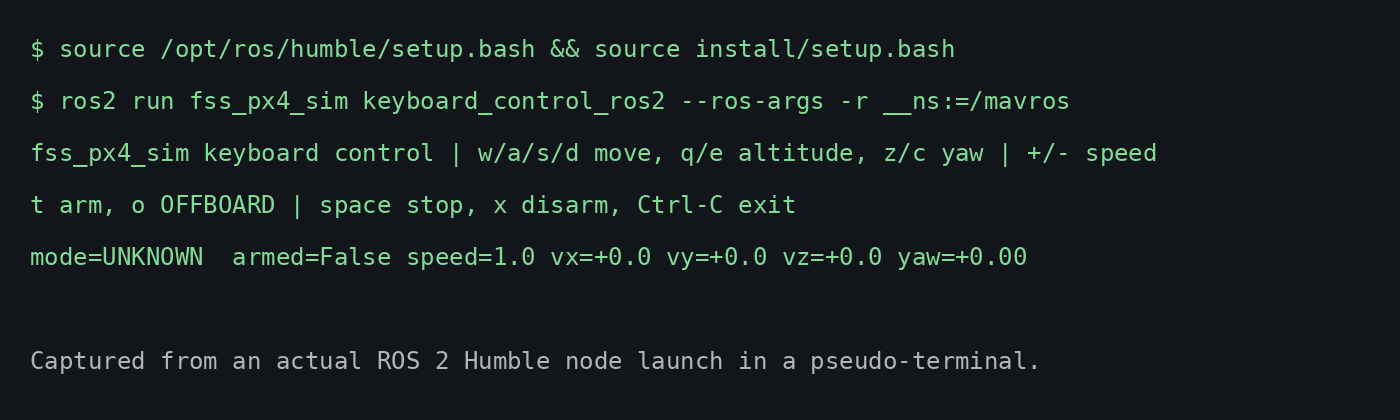
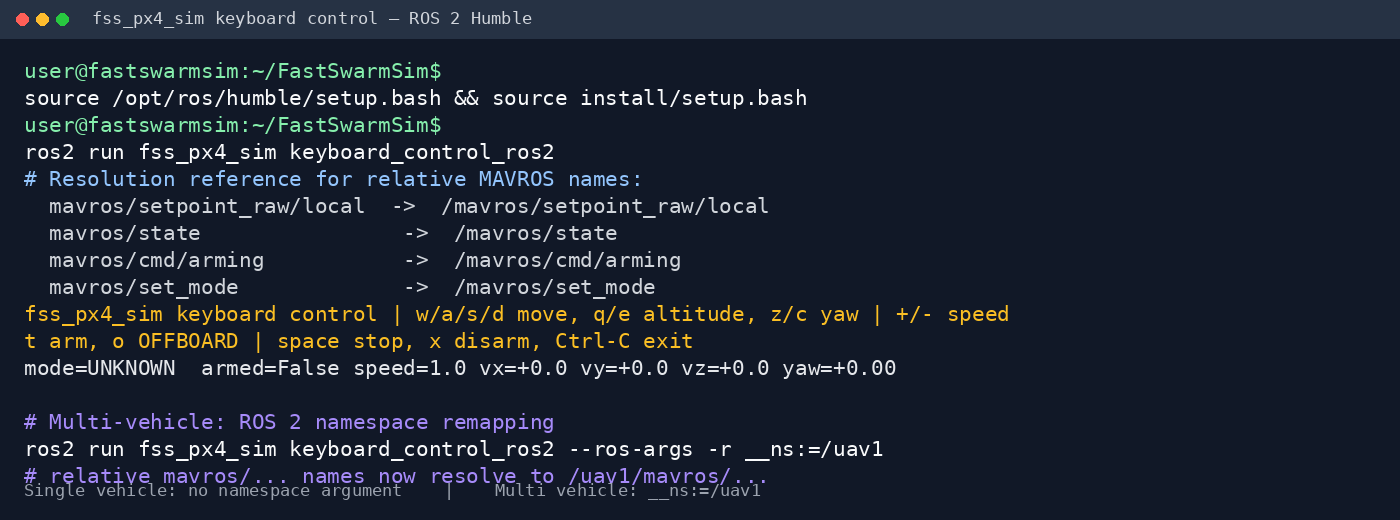
fix(fss-px4-sim): restore ROS namespace-based MAVROS names

diff --git a/src/fss_px4_sim/scripts/keyboard_control_ros2.py b/src/fss_px4_sim/scripts/keyboard_control_ros2.py
@@ -16,29 +16,12 @@ from rclpy.node import Node
 from rclpy.signals import SignalHandlerOptions
 
 
-DEFAULT_SETPOINT_TOPIC = "/mavros/setpoint_raw/local"
-DEFAULT_STATE_TOPIC = "/mavros/state"
-DEFAULT_ARMING_SERVICE = "/mavros/cmd/arming"
-DEFAULT_MODE_SERVICE = "/mavros/set_mode"
-
-
-def mavros_interfaces(namespace):
-    """Return MAVROS interface names, using absolute single-vehicle defaults."""
-    if namespace == "/mavros":
-        return (
-            DEFAULT_SETPOINT_TOPIC,
-            DEFAULT_STATE_TOPIC,
-            DEFAULT_ARMING_SERVICE,
-            DEFAULT_MODE_SERVICE,
-        )
-
-    namespace = "/" + namespace.strip("/")
-    return (
-        f"{namespace}/setpoint_raw/local",
-        f"{namespace}/state",
-        f"{namespace}/cmd/arming",
-        f"{namespace}/set_mode",
-    )
+# Relative names preserve the ROS 1-style namespace layout:
+# single vehicle -> /mavros/..., multi-vehicle /uav1 -> /uav1/mavros/...
+SETPOINT_TOPIC = "mavros/setpoint_raw/local"
+STATE_TOPIC = "mavros/state"
+ARMING_SERVICE = "mavros/cmd/arming"
+MODE_SERVICE = "mavros/set_mode"
 
 
 class KeyboardControl(Node):
@@ -51,12 +34,14 @@ class KeyboardControl(Node):
         self.armed = False
         self.mode = "UNKNOWN"
         self.lock = Lock()
-        (self.setpoint_topic, self.state_topic,
-         self.arming_service, self.mode_service) = mavros_interfaces(args.mavros_namespace)
-        self.setpoint_pub = self.create_publisher(PositionTarget, self.setpoint_topic, 10)
-        self.state_sub = self.create_subscription(State, self.state_topic, self._state_cb, 10)
-        self.arm_client = self.create_client(CommandBool, self.arming_service)
-        self.mode_client = self.create_client(SetMode, self.mode_service)
+        self.setpoint_topic = SETPOINT_TOPIC
+        self.state_topic = STATE_TOPIC
+        self.arming_service = ARMING_SERVICE
+        self.mode_service = MODE_SERVICE
+        self.setpoint_pub = self.create_publisher(PositionTarget, SETPOINT_TOPIC, 10)
+        self.state_sub = self.create_subscription(State, STATE_TOPIC, self._state_cb, 10)
+        self.arm_client = self.create_client(CommandBool, ARMING_SERVICE)
+        self.mode_client = self.create_client(SetMode, MODE_SERVICE)
         self.timer = self.create_timer(0.05, self._publish)
 
     def _state_cb(self, msg):
@@ -146,11 +131,7 @@ def parse_args(argv=None):
     parser.add_argument("--speed", type=float, default=1.0, help="translation speed in m/s (default: 1.0)")
     parser.add_argument("--yaw-speed", type=float, default=1.57, help="yaw speed in rad/s (default: 1.57)")
     parser.add_argument("--initial-altitude", type=float, default=1.0, help="initial z setpoint in metres")
-    parser.add_argument(
-        "--mavros-namespace",
-        default="/mavros",
-        help="MAVROS namespace for a selected vehicle (default: /mavros)",
-    )
+
     return parser.parse_known_args(argv)
 
 

diff --git a/docs/src/fss_px4_sim/README.md b/docs/src/fss_px4_sim/README.md
@@ -42,7 +42,7 @@ In conclusion, the conventional PX4 SITL process + MAVROS process + drone dynami
 ros2 run fss_px4_sim keyboard_control_ros2
 
 # Optional: control the first vehicle in a multi-drone launch.
-ros2 run fss_px4_sim keyboard_control_ros2 --mavros-namespace /uav1/mavros
+ros2 run fss_px4_sim keyboard_control_ros2 --ros-args -r __ns:=/uav1
 ```
 
 | Key | Action |
@@ -57,12 +57,12 @@ ros2 run fss_px4_sim keyboard_control_ros2 --mavros-namespace /uav1/mavros
 | `X` | stop and disarm |
 | `Ctrl-C` | stop, request disarm, and restore terminal |
 
-The node starts streaming neutral setpoints at 20 Hz, then requires the explicit safe sequence `T`, wait for `armed=True`, then `O`; it refuses an OFFBOARD request while state reports disarmed. By default it publishes `mavros_msgs/msg/PositionTarget` to `/mavros/setpoint_raw/local`, subscribes to `mavros_msgs/msg/State` on `/mavros/state`, and calls `/mavros/cmd/arming` and `/mavros/set_mode`. On every normal exit it publishes a neutral setpoint and waits up to one second for a disarm request before restoring the terminal. Set `--speed`, `--yaw-speed`, `--initial-altitude`, or the optional `--mavros-namespace` to change defaults. Always verify the vehicle is in a safe simulation state before arming.
+The node starts streaming neutral setpoints at 20 Hz, then requires the explicit safe sequence `T`, wait for `armed=True`, then `O`; it refuses an OFFBOARD request while state reports disarmed. The controller uses relative MAVROS names: `mavros/setpoint_raw/local`, `mavros/state`, `mavros/cmd/arming`, and `mavros/set_mode`. Therefore, the single-vehicle command resolves them to `/mavros/...` without any extra namespace argument. With `--ros-args -r __ns:=/uav1`, the same names resolve to `/uav1/mavros/...`, matching the multi-vehicle ROS 1-style namespace layout. On every normal exit it publishes a neutral setpoint and waits up to one second for a disarm request before restoring the terminal. Set `--speed`, `--yaw-speed`, or `--initial-altitude` to change control defaults. Always verify the vehicle is in a safe simulation state before arming.
 
 The keyboard controller is intended for an interactive terminal. The following
-is a verified ROS 2 node terminal capture; it demonstrates node startup and the
-keyboard status display, but is not a substitute for checking the simulated
-vehicle state before arming:
+terminal reference shows the single-vehicle command, the resolved relative
+MAVROS interfaces, and the ROS 2 namespace command for `/uav1`. Always verify
+the simulated vehicle state before arming:
 
 ![Keyboard control terminal](https://shupx.github.io/FastSwarmSim/misc/fss_keyboard_control_terminal.png)
 

diff --git a/src/fss_px4_sim/README.md b/src/fss_px4_sim/README.md
@@ -42,7 +42,7 @@ In conclusion, the conventional PX4 SITL process + MAVROS process + drone dynami
 ros2 run fss_px4_sim keyboard_control_ros2
 
 # Optional: control the first vehicle in a multi-drone launch.
-ros2 run fss_px4_sim keyboard_control_ros2 --mavros-namespace /uav1/mavros
+ros2 run fss_px4_sim keyboard_control_ros2 --ros-args -r __ns:=/uav1
 ```
 
 | Key | Action |
@@ -57,12 +57,12 @@ ros2 run fss_px4_sim keyboard_control_ros2 --mavros-namespace /uav1/mavros
 | `X` | stop and disarm |
 | `Ctrl-C` | stop, request disarm, and restore terminal |
 
-The node starts streaming neutral setpoints at 20 Hz, then requires the explicit safe sequence `T`, wait for `armed=True`, then `O`; it refuses an OFFBOARD request while state reports disarmed. By default it publishes `mavros_msgs/msg/PositionTarget` to `/mavros/setpoint_raw/local`, subscribes to `mavros_msgs/msg/State` on `/mavros/state`, and calls `/mavros/cmd/arming` and `/mavros/set_mode`. On every normal exit it publishes a neutral setpoint and waits up to one second for a disarm request before restoring the terminal. Set `--speed`, `--yaw-speed`, `--initial-altitude`, or the optional `--mavros-namespace` to change defaults. Always verify the vehicle is in a safe simulation state before arming.
+The node starts streaming neutral setpoints at 20 Hz, then requires the explicit safe sequence `T`, wait for `armed=True`, then `O`; it refuses an OFFBOARD request while state reports disarmed. The controller uses relative MAVROS names: `mavros/setpoint_raw/local`, `mavros/state`, `mavros/cmd/arming`, and `mavros/set_mode`. Therefore, the single-vehicle command resolves them to `/mavros/...` without any extra namespace argument. With `--ros-args -r __ns:=/uav1`, the same names resolve to `/uav1/mavros/...`, matching the multi-vehicle ROS 1-style namespace layout. On every normal exit it publishes a neutral setpoint and waits up to one second for a disarm request before restoring the terminal. Set `--speed`, `--yaw-speed`, or `--initial-altitude` to change control defaults. Always verify the vehicle is in a safe simulation state before arming.
 
 The keyboard controller is intended for an interactive terminal. The following
-is a verified ROS 2 node terminal capture; it demonstrates node startup and the
-keyboard status display, but is not a substitute for checking the simulated
-vehicle state before arming:
+terminal reference shows the single-vehicle command, the resolved relative
+MAVROS interfaces, and the ROS 2 namespace command for `/uav1`. Always verify
+the simulated vehicle state before arming:
 
 ![Keyboard control terminal](https://shupx.github.io/FastSwarmSim/misc/fss_keyboard_control_terminal.png)
 
